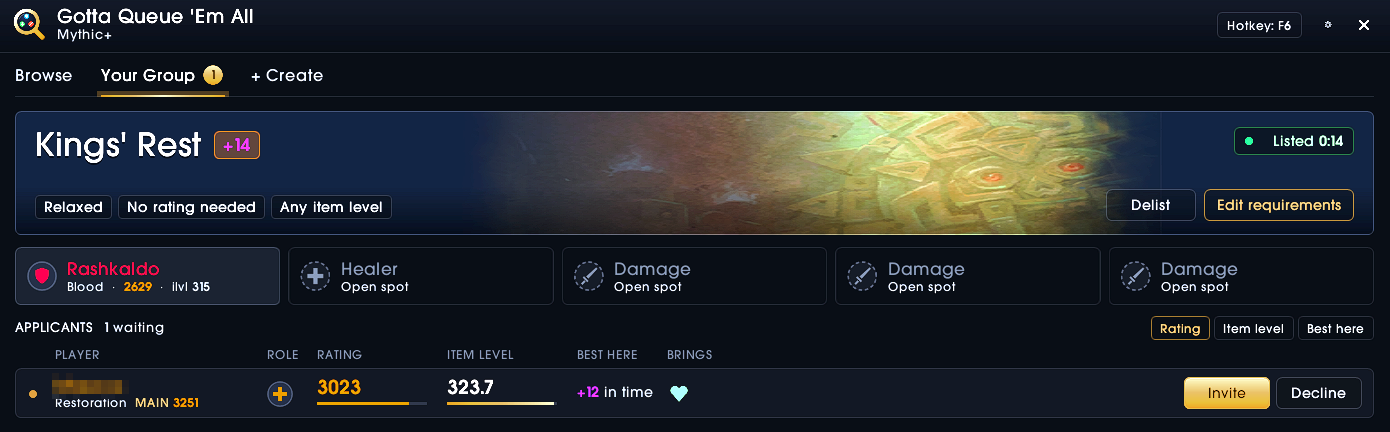
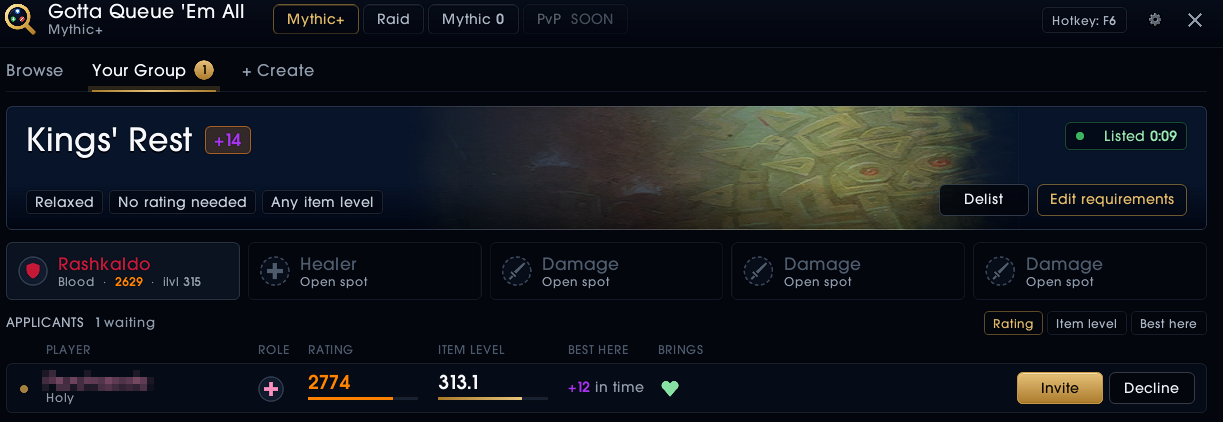
README: screenshots of 1.1.0 (Mythic+, Create, Your Group, Raid)

diff --git a/README.md b/README.md
@@ -5,11 +5,13 @@ with a real key-level filter, sign up, list your group and handle your applicant
 with ratings, best runs, roles and specs, lockouts, Bloodlust / battle res and
 Raider.IO info at a glance. Blizzard's window stays closed.
 
-![Browse: groups filtered by key level and sorted by key](media/screenshots/1-browse.png)
+![Mythic+ Browse: dungeons, key level, leader rating and best run, Role or Spec view](media/screenshots/1-mythic-plus-browse.png)
+
+![Mythic+ + Create: your keystone, playstyle, requirements and your own title](media/screenshots/2-mythic-plus-create.png)
 
 ![Your Group: your listing, party slots and applicants](media/screenshots/3-your-group.png)
 
-![+ Create: list your keystone](media/screenshots/2-create.png)
+![Raid Browse: lockouts, killed bosses, group size and every member at a glance](media/screenshots/4-raid-browse.png)
 
 ## Features
 
